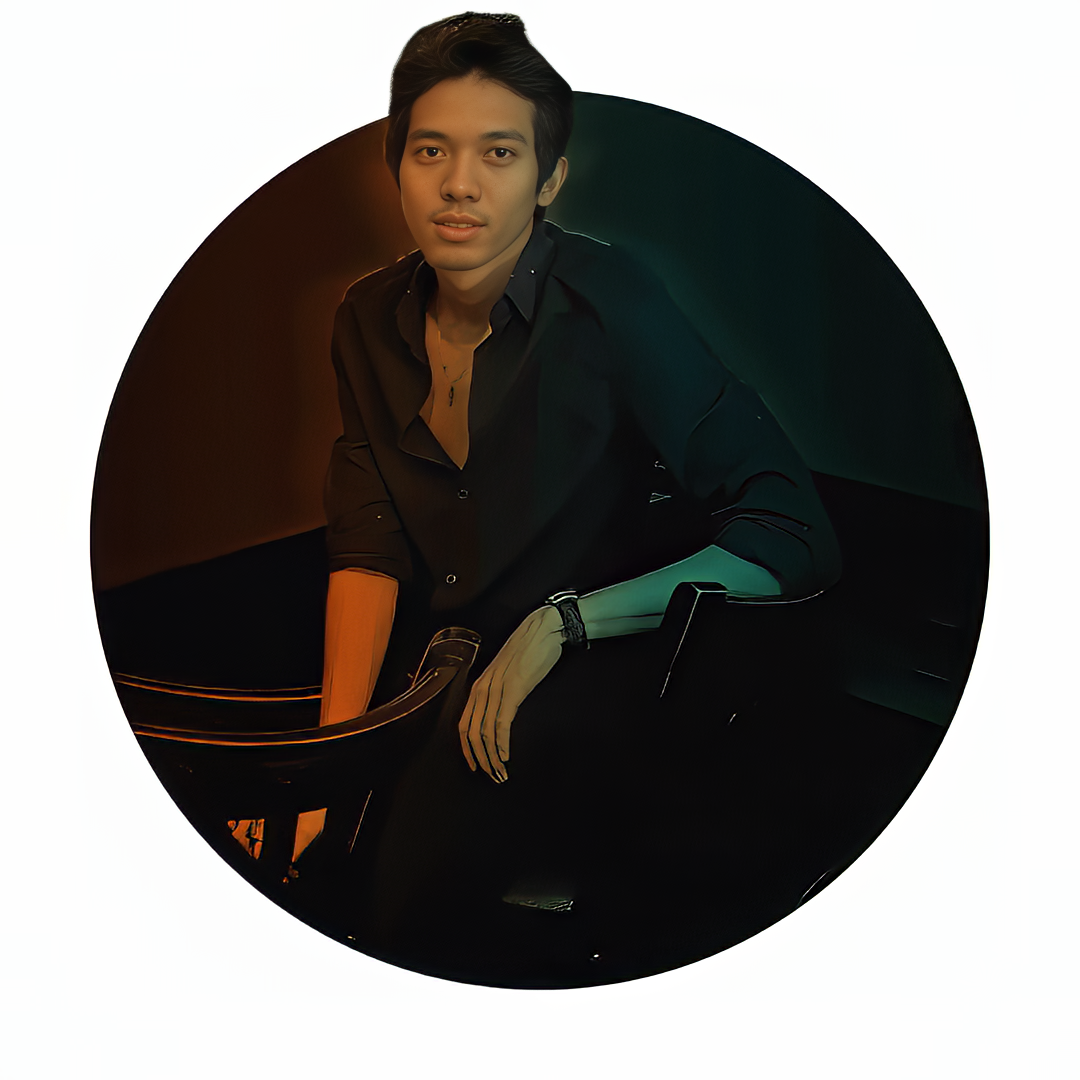
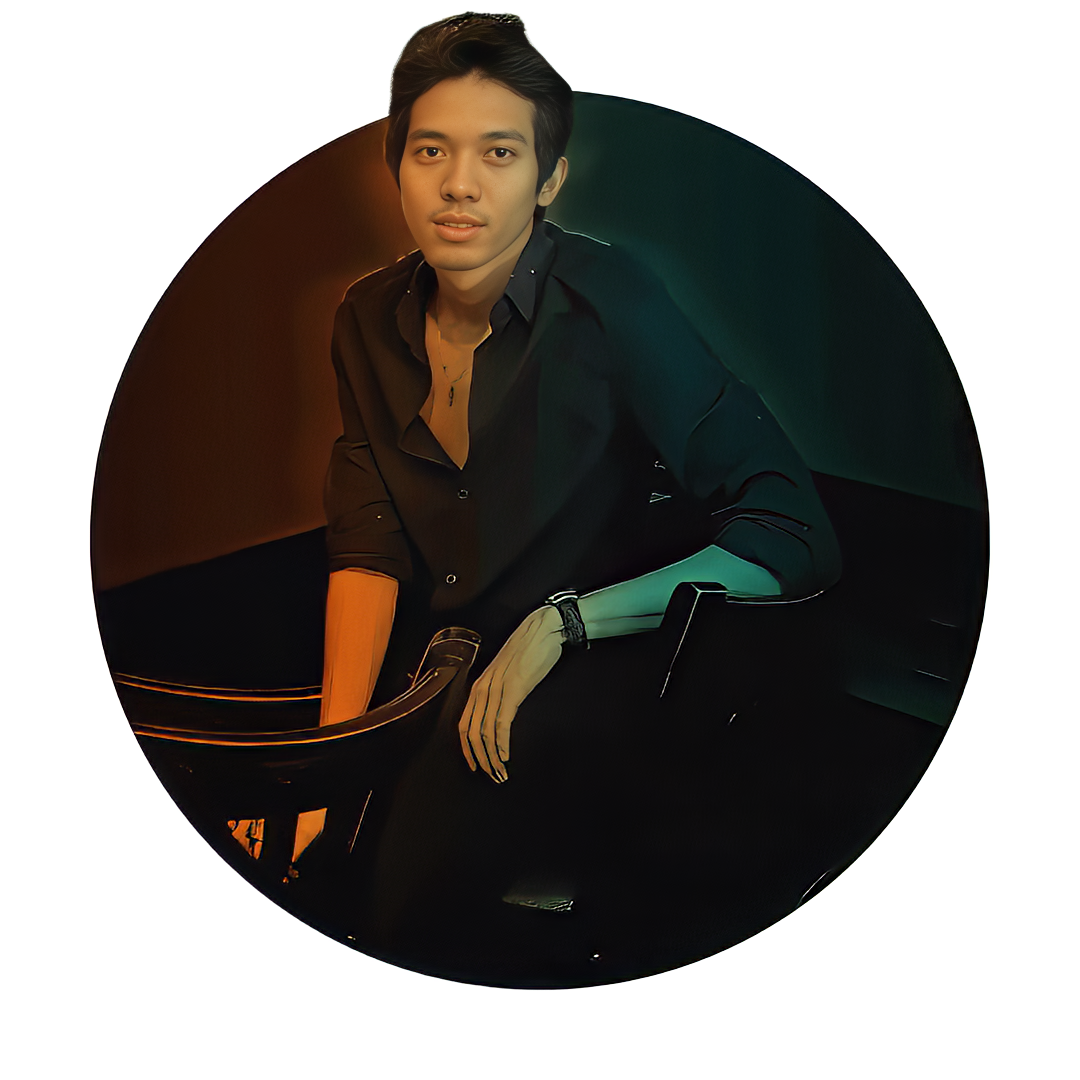
fixed: profile image size and set project 5 title color

diff --git a/scripts/language-boilerplate.js b/scripts/language-boilerplate.js
@@ -6,16 +6,16 @@ const languages = {
     my: "ကျွန်တော့်နာမည်ကတော့ဇေယျနိုင် ဖြစ်ပြီး ကျွန်တော် web developer အဖြစ် အလုပ်လုပ်နေပါတယ်။",
   },
   introduction_description: {
-    ja: `言語はJavascript、Typescript、PHP、フロントエンドはAngularとバックエンドはLaravelを利用してSPA開発を行っています。
+    ja: `　言語はJavascript、Typescript、PHP、フロントエンドはAngularとバックエンドはLaravelを利用してSPA開発を行っています。
             今までフロントエンドとバックエンドのコーディング実装、スクラム開発、PHP
             Unitの単体テスト、テストケース作成、障害対応なの経験を持っています。
             コードを実装する時に他のチームメンバーが分かりやすい、メンテナンスしやすいコードをいつも心掛けています。
             今後はウェブ開発者もっと学びつづ、スマホアプリ開発にも挑戦して行きたいです。`,
-    en: `I develop SPA using Javascript, Typescript, and PHP, with Angular for the front-end and Laravel for the back-end.
+    en: `　I develop SPA using Javascript, Typescript, and PHP, with Angular for the front-end and Laravel for the back-end.
           I have experience in front-end and back-end coding implementation, Scrum development, PHP Unit testing, test case creation and troubleshooting.
           When implementing code, I always try to write code that is easy for other team Members to understand and maintain.
           In the future, I would like to learn more about web development and challenge smartphone app development.`,
-    my: `front-end အတွက် Angular နှင့် back-end အတွက် Laravel တို့ဖြင့် Javascript၊ Typescript နှင့် PHP ကိုအသုံးပြု၍ SPA ကို တီထွင်ပါသည်။
+    my: `　Front-end အတွက် Angular နှင့် back-end အတွက် Laravel တို့ဖြင့် Javascript၊ Typescript နှင့် PHP ကိုအသုံးပြု၍ SPA ကို တီထွင်ပါသည်။
       ကျွန်ုပ်တွင် front-end နှင့် back-end coding အကောင်အထည်ဖော်မှု၊ Scrum ဖွံ့ဖြိုးတိုးတက်မှု၊ PHP Unit စမ်းသပ်မှု၊ စမ်းသပ်မှုဖန်တီးမှုနှင့် ပြဿနာဖြေရှင်းခြင်းများတွင် အတွေ့အကြုံရှိသည်။
       ကုဒ်ကို အကောင်အထည်ဖော်သည့်အခါတွင် အခြားအဖွဲ့သားများ နားလည်ပြီး ထိန်းသိမ်းရန် လွယ်ကူသော ကုဒ်ကို ရေးရန် အမြဲကြိုးစားပါသည်။
       အနာဂတ်တွင်၊ ကျွန်ုပ်သည် ဝဘ်ဖွံ့ဖြိုးတိုးတက်မှုနှင့် စမတ်ဖုန်းအက်ပလီကေးရှင်းဖွံ့ဖြိုးတိုးတက်မှုကို စိန်ခေါ်၍ ပိုမိုလေ့လာလိုပါသည်။`,
@@ -28,9 +28,9 @@ const languages = {
     my: "01. အဓိကလုပ်ငန်းသုံးစနစ်",
   },
   project_1_description: {
-    ja: `受注から印刷工程、出荷までの流れで、ペーパーレスを目的としたシステムです。 私は主にフロントエンドとバックエンドの開発をして、単体テスト、画面上テスト、バグ対応などを担当しています。受注から印刷工程出荷までの流れで、 ペーパーレスを目的としたシステムです。`,
-    en: `The system is aimed at going paperless from the flow of orders, through the printing process, to shipping. I mainly develop the front-end and back-end, and am in charge of unit testing, on-screen testing, and bug response. The system is aimed at going paperless from the flow of orders, through the printing process, to shipping.`,
-    my: `အဆိုပါစနစ်သည် အော်ဒါများ မှ ပုံနှိပ်ခြင်း၊ အော်ဒါပို့ဆောင်ခြင်းအထိ လုပ်ငန်းစဉ်တွင် အသုံးပြုရသောစက္ကူ(A4)များမရှိစေရန် ရည်ရွယ်သည်။ ကျွန်ုပ်သည် ရှေ့ဆုံးနှင့် နောက်တန်းကို အဓိကအားဖြင့် တီထွင်ထားပြီး ယူနစ်စမ်းသပ်ခြင်း၊ မျက်နှာပြင်ပေါ်ရှိ စမ်းသပ်ခြင်းနှင့် ချွတ်ယွင်းချက်တုံ့ပြန်မှုတို့ကို တာဝန်ယူပါသည်။ အဆိုပါစနစ်သည် အမှာစာများ စီးဆင်းမှုမှ စက္ကူမရှိသော ပုံနှိပ်ခြင်း လုပ်ငန်းစဉ်မှတဆင့် ပို့ဆောင်ခြင်းအထိ ရည်ရွယ်သည်။`,
+    ja: `　受注から印刷工程、出荷までの流れで、ペーパーレスを目的としたシステムです。 私は主にフロントエンドとバックエンドの開発をして、単体テスト、画面上テスト、バグ対応などを担当しています。`,
+    en: `　The system is aimed at going paperless from the flow of orders, through the printing process, to shipping. I mainly develop the front-end and back-end, and am in charge of unit testing, on-screen testing, and bug response.`,
+    my: `　အဆိုပါစနစ်ရည်ရွယ်ချက်သည် အော်ဒါများကိုပုံနှိပ်၍ ပို့ဆောင်ခြင်းအထိ လုပ်ငန်းစဉ်တွင် အသုံးပြုရသောစက္ကူ(A4)များမရှိစေရန် ဖြစ်ပါသည်။ ကျွန်ုပ်သည် front-endနှင့် back-endကို အဓိကအားဖြင့် ယူနစ်စမ်းသပ်ခြင်း၊ မျက်နှာပြင်ပေါ်ရှိ စမ်းသပ်ခြင်းနှင့် ချွတ်ယွင်းချက်တုံ့ပြန်မှုတို့ကို တာဝန်ယူပါသည်။`,
   },
   project_1_label_1: {
     ja: "開発開始: 2018年 10月",
@@ -48,9 +48,9 @@ const languages = {
     my: "02. အချိန်ပိုင်းစီမံခန့်ခွဲမှုစနစ်",
   },
   project_2_description: {
-    ja: `パートさんの出勤・退勤、業務日報、シフト、時給予算などが管理できるシステムです。私は主にER図作成、レスポンス定義、フロントエンド、バックエンド、単体テスト、画面上テスト、バグ対応などを担当しています。`,
-    en: `It is a system that can manage part-timer's attendance, daily work's report, shift, and salary budget. I am mainly responsible for ER diagram creation, response definition, front-end, back-end, unit testing, on-screen testing, and bug response.`,
-    my: `အချိန်ပိုင်းတက်ရောက်မှု၊ နေ့စဥ်အလုပ်အစီရင်ခံစ၊ အဆိုင်းနှင့် လစာဘတ်ဂျက်တို့ကို စီမံခန့်ခွဲနိုင်သည့် စနစ်တစ်ခုဖြစ်သည်။ ကျွန်ုပ်သည် ER ပုံကြမ်းဖန်တီးခြင်း၊ တုံ့ပြန်မှုအဓိပ္ပါယ်ဖွင့်ဆိုချက်၊ ရှေ့ဆုံး၊ နောက်ကျော၊ ယူနစ်စမ်းသပ်ခြင်း၊ မျက်နှာပြင်ပေါ်ရှိ စမ်းသပ်ခြင်းနှင့် ချွတ်ယွင်းချက်တုံ့ပြန်မှုတို့အတွက် အဓိကတာဝန်ယူပါသည်။`,
+    ja: `　パートさんの出勤・退勤、業務日報、シフト、時給予算などが管理できるシステムです。私は主にER図作成、レスポンス定義、フロントエンド、バックエンド、単体テスト、画面上テスト、バグ対応などを担当しています。`,
+    en: `　It is a system that can manage part-timer's attendance, daily work's report, shift, and salary budget. I am mainly responsible for ER diagram creation, response definition, front-end, back-end, unit testing, on-screen testing, and bug response.`,
+    my: `　အချိန်ပိုင်းတက်ရောက်မှု၊ နေ့စဥ်အလုပ်အစီရင်ခံစ၊ အဆိုင်းနှင့် လစာဘတ်ဂျက်တို့ကို စီမံခန့်ခွဲနိုင်သည့် စနစ်တစ်ခုဖြစ်သည်။ ကျွန်ုပ်သည် ER ပုံကြမ်းဖန်တီးခြင်း၊ တုံ့ပြန်မှုအဓိပ္ပါယ်ဖွင့်ဆိုချက်၊ ရှေ့ဆုံး၊ နောက်ကျော၊ ယူနစ်စမ်းသပ်ခြင်း၊ မျက်နှာပြင်ပေါ်ရှိ စမ်းသပ်ခြင်းနှင့် ချွတ်ယွင်းချက်တုံ့ပြန်မှုတို့အတွက် အဓိကတာဝန်ယူပါသည်။`,
   },
   project_2_label_1: {
     ja: "開発開始: 2019年 05月",
@@ -70,9 +70,9 @@ const languages = {
     my: "03. ကုမ္ပဏီ၏ FAQ(အမေးများသောမေးခွန်း) စနစ်",
   },
   project_3_description: {
-    ja: `EC サイトの商品、注文などに関するお客様の問い合わせを対応するための 社内用FAQシステムです。 設計から開発、フロントエンド、バックエンド、単体テスト、画面上テスト、バグ対応などを担当しています。`,
-    en: `The company's FAQ system is a frequent answer and question system for handling customer inquiries regarding products, orders, etc., on the EC site. I am responsible for everything from design to development, front-end, back-end, unit testing, on-screen testing, and bug response.`,
-    my: `ကုမ္ပဏီ၏ FAQ စနစ်သည် EC ဆိုက်တွင် ထုတ်ကုန်များ၊ အမှာစာများ စသည်တို့နှင့် ပတ်သက်သော ဖောက်သည်များ၏ စုံစမ်းမေးမြန်းမှုများကို မကြာခဏ ဖြေကြားပေးသည့် မေးခွန်းစနစ်တစ်ခုဖြစ်သည်။ ဒီဇိုင်းမှ ဖွံ့ဖြိုးတိုးတက်မှု၊ ရှေ့ဆုံး၊ နောက်ကျော၊ ယူနစ်စမ်းသပ်မှု၊ မျက်နှာပြင်ပေါ်ရှိ စမ်းသပ်ခြင်းနှင့် ချွတ်ယွင်းချက်တုံ့ပြန်မှုတို့မှ အရာအားလုံးအတွက် ကျွန်ုပ်တွင် တာဝန်ရှိပါသည်။`,
+    ja: `　EC サイトの商品、注文などに関するお客様の問い合わせを対応するための 社内用FAQシステムです。 設計から開発、フロントエンド、バックエンド、単体テスト、画面上テスト、バグ対応などを担当しています。`,
+    en: `　The company's FAQ system is a frequent answer and question system for handling customer inquiries regarding products, orders, etc., on the EC site. I am responsible for everything from design to development, front-end, back-end, unit testing, on-screen testing, and bug response.`,
+    my: `　ကုမ္ပဏီ၏ FAQ စနစ်သည် EC ဆိုက်တွင် ထုတ်ကုန်များ၊ အမှာစာများ စသည်တို့နှင့် ပတ်သက်သော ဖောက်သည်များ၏ စုံစမ်းမေးမြန်းမှုများကို မကြာခဏ ဖြေကြားပေးသည့် မေးခွန်းစနစ်တစ်ခုဖြစ်သည်။ ဒီဇိုင်းမှ ဖွံ့ဖြိုးတိုးတက်မှု၊ ရှေ့ဆုံး၊ နောက်ကျော၊ ယူနစ်စမ်းသပ်မှု၊ မျက်နှာပြင်ပေါ်ရှိ စမ်းသပ်ခြင်းနှင့် ချွတ်ယွင်းချက်တုံ့ပြန်မှုတို့မှ အရာအားလုံးအတွက် ကျွန်ုပ်တွင် တာဝန်ရှိပါသည်။`,
   },
   project_3_label_1: {
     ja: "開発開始: 2021年 06月",
@@ -90,9 +90,9 @@ const languages = {
     my: "04. မိတ်ဖက်ကုမ္ပဏီ အော်ဒါစီမံခန့်ခွဲမှုစနစ်",
   },
   project_4_description: {
-    ja: `自社製造品以外の製品をパートナー企業に発注する受注管理システムです。主にフロントエンド、バックエンド、単体テスト、画面テスト、API連携などを実装します。`,
-    en: `This is an outstanding order management system that orders products that are not manufactured by our company to partner companies. It mainly implements front-end, back-end, unit testing, on-screen testing, and API integration.`,
-    my: `ဤသည်မှာ ကျွန်ုပ်တို့၏ကုမ္ပဏီမှထုတ်လုပ်ခြင်းမရှိသော ထုတ်ကုန်များကို မိတ်ဖက်ကုမ္ပဏီများထံ မှာကြားသည့် ထူးထူးခြားခြား အမှာစာစီမံခန့်ခွဲမှုစနစ်ဖြစ်သည်။ ၎င်းသည် အဓိကအားဖြင့် front-end၊ back-end၊ unit testing၊ on-screen testing နှင့် API ပေါင်းစည်းမှုတို့ကို လုပ်ဆောင်သည်။`,
+    ja: `　自社製造品以外の製品をパートナー企業に発注する受注管理システムです。主にフロントエンド、バックエンド、単体テスト、画面テスト、API連携などを実装します。`,
+    en: `　This is an outstanding order management system that orders products that are not manufactured by our company to partner companies. It mainly implements front-end, back-end, unit testing, on-screen testing, and API integration.`,
+    my: `　ဤသည်မှာ ကျွန်ုပ်တို့၏ကုမ္ပဏီမှထုတ်လုပ်ခြင်းမရှိသော ထုတ်ကုန်များကို မိတ်ဖက်ကုမ္ပဏီများထံ မှာကြားသည့် ထူးထူးခြားခြား အမှာစာစီမံခန့်ခွဲမှုစနစ်ဖြစ်သည်။ ၎င်းသည် အဓိကအားဖြင့် front-end၊ back-end၊ unit testing၊ on-screen testing နှင့် API ပေါင်းစည်းမှုတို့ကို လုပ်ဆောင်သည်။`,
   },
   project_4_label_1: {
     ja: "開発開始: 2021年 06月",
@@ -110,9 +110,9 @@ const languages = {
     my: "05. ငွေကြေးစီမံခန့်ခွဲမှုစနစ်",
   },
   project_5_description: {
-    ja: `当社の Web アプリケーションは,ビジネスと個人の収入/成果をすばやく簡単に計算できるように設計されています。また,毎月の収入や成果を確認して,簡単に財務を管理することもできます。`,
-    en: `Our web application is designed to make it easy to manage the income/expenses of business and individuals. Also, you can check monthly income and expenses and manage your finances easily.`,
-    my: `ကျွန်ုပ်တို့၏ဝဘ်အက်ပလီကေးရှင်းသည် လုပ်ငန်းနှင့်တစ်ဦးချင်းစီ၏ ၀င်ငွေ/ထွက်ငွေများကို လွယ်ကူစွာတွက်ချက်နိုင်ရန် ဒီဇိုင်းထုတ်ထားသည်။ ထို့အပြင်၊ သင်သည် လစဉ် ၀င်ငွေနှင့် ထွက်ငွေများကို စစ်ဆေးနိုင်ပြီး သင်၏ ငွေကြေးကို လွယ်ကူစွာ စီမံခန့်ခွဲနိုင်သည်။`,
+    ja: `　当社の Web アプリケーションは,ビジネスと個人の収入/成果をすばやく簡単に計算できるように設計されています。また,毎月の収入や成果を確認して,簡単に財務を管理することもできます。`,
+    en: `　Our web application is designed to make it easy to manage the income/expenses of business and individuals. Also, you can check monthly income and expenses and manage your finances easily.`,
+    my: `　ကျွန်ုပ်တို့၏ဝဘ်အက်ပလီကေးရှင်းသည် လုပ်ငန်းနှင့်တစ်ဦးချင်းစီ၏ ၀င်ငွေ/ထွက်ငွေများကို လွယ်ကူစွာတွက်ချက်နိုင်ရန် ဒီဇိုင်းထုတ်ထားသည်။ ထို့အပြင်၊ သင်သည် လစဉ် ၀င်ငွေနှင့် ထွက်ငွေများကို စစ်ဆေးနိုင်ပြီး သင်၏ ငွေကြေးကို လွယ်ကူစွာ စီမံခန့်ခွဲနိုင်သည်။`,
   },
   project_5_label_1: {
     ja: "開発開始: 2023年 04月",
@@ -128,7 +128,7 @@ const languages = {
   contact_title: {
     ja: "お電話またはメールでのご相談は下記までお願いいたします。",
     en: "For inquiries by phone or email, please contact us at the details below.",
-    my: "ဖုန်း သို့မဟုတ် အီးမေးလ်ဖြင့် စုံစမ်းမေးမြန်းလိုပါက အောက်ပါအသေးစိတ်အချက်အလက်များကို ကျွန်ုပ်တို့ထံ ဆက်သွယ်ပါ။",
+    my: "ဖုန်း (သို့) အီးမေးလ်ဖြင့် စုံစမ်းမေးမြန်းလိုပါက အောက်ပါအသေးစိတ်အချက်အလက်များကို ကျွန်ုပ်တို့ထံ ဆက်သွယ်ပါ။",
   },
 };
 

diff --git a/index.html b/index.html
@@ -44,10 +44,9 @@
         <button class="ja">🇯🇵 JA</button>
         <button class="en">🇺🇸 EN</button>
       </div>
-   
     </nav>
     <div class="theme-color poppins-font-family font-weight-600">
-      <button class="dark-color">☾ DARK</button>
+      <button class="dark-color">☼ LIGHT</button>
     </div>
     <section id="introduction">
       <div class="container">
@@ -68,7 +67,7 @@
             ゼイヤ ナインと申します。ウェブ開発者として勤めています。
           </p>
           <p class="introduction_description">
-            言語はJavascript、Typescript、PHP、フロントエンドはAngularとバックエンドはLaravelを利用してSPA開発を行っています。
+            　言語はJavascript、Typescript、PHP、フロントエンドはAngularとバックエンドはLaravelを利用してSPA開発を行っています。
             今までフロントエンドとバックエンドのコーディング実装、スクラム開発、PHP
             Unitの単体テスト、テストケース作成、障害対応なの経験を持っています。
             コードを実装する時に他のチームメンバーが分かりやすい、メンテナンスしやすいコードをいつも心掛けています。
@@ -219,9 +218,8 @@
                 <span class="project_1_label_2">メンバー：7人</span>
               </p>
               <p class="project-description project_1_description">
-                受注から印刷工程、出荷までの流れで、ペーパーレスを目的としたシステムです。
-                私は主にフロントエンドとバックエンドの開発をして、単体テスト、画面上テスト、バグ対応などを担当しています。受注から印刷工程出荷までの流れで、
-                ペーパーレスを目的としたシステムです。
+                　受注から印刷工程、出荷までの流れで、ペーパーレスを目的としたシステムです。
+                私は主にフロントエンドとバックエンドの開発をして、単体テスト、画面上テスト、バグ対応などを担当しています。
               </p>
             </div>
             <div
@@ -283,7 +281,7 @@
                 <span class="project_2_label_2">メンバー：2人</span>
               </p>
               <p class="project-description project_2_description">
-                パートさんの出勤・退勤、業務日報、シフト、時給予算などが管理できるシステムです。
+                　パートさんの出勤・退勤、業務日報、シフト、時給予算などが管理できるシステムです。
                 私は主にER図作成、レスポンス定義、フロントエンド、バックエンド、単体テスト、画面上テスト、バグ対応などを担当しています。
               </p>
             </div>
@@ -346,7 +344,7 @@
                 <span class="project_3_label_2">メンバー：3人</span>
               </p>
               <p class="project-description project_3_description">
-                EC
+                　EC
                 サイトの商品、注文などに関するお客様の問い合わせを対応するための
                 社内用FAQシステムです。
                 設計から開発、フロントエンド、バックエンド、単体テスト、画面上テスト、バグ対応などを担当しています。
@@ -411,7 +409,7 @@
                 <span class="project_4_label_2">メンバー：7人</span>
               </p>
               <p class="project-description project_4_description">
-                弊社で製造しない商品をパートナー企業へ発注する発注管理システムです。
+                　弊社で製造しない商品をパートナー企業へ発注する発注管理システムです。
                 主にフロントエンド、バックエンド、単体テスト、画面上テスト、API
                 連携を実装しています。
               </p>
@@ -465,9 +463,8 @@
                 <span class="project_5_label_2">メンバー：1人</span>
               </p>
               <p class="project-description project_5_description">
-                弊社で製造しない商品をパートナー企業へ発注する発注管理システムです。
-                主にフロントエンド、バックエンド、単体テスト、画面上テスト、API
-                連携を実装しています。
+                　当社の Web
+                アプリケーションは,ビジネスと個人の収入/成果をすばやく簡単に計算できるように設計されています。また,毎月の収入や成果を確認して,簡単に財務を管理することもできます。
               </p>
             </div>
           </div>

diff --git a/style.css b/style.css
@@ -25,6 +25,9 @@
     --text-main-reverse-color: #1e1e1e;
     --text-sub-color: #ffffff;
     --text-sub-reverse-color: #000000;
+    --btn-them-color: 7, 7, 7;
+    --btn-theme-reverse-color: 225, 225, 225;
+    --text-shadow: 90, 90, 90;
 }
 
 body.is-light {
@@ -34,6 +37,9 @@ body.is-light {
     --text-main-reverse-color: #e1e1e1;
     --text-sub-color: #000000;
     --text-sub-reverse-color: #ffffff;
+    --btn-them-color: 225, 225, 225;
+    --btn-theme-reverse-color: 7, 7, 7;
+    --text-shadow: 180, 180, 180;
 }
 
 @font-face {
@@ -49,8 +55,9 @@ body.is-light {
 
 html {
     font-size: 14px;
-    
+
 }
+
 body.is-dark {
     background-color: var(--bg-color);
     color: var(--text-main-color);
@@ -140,7 +147,7 @@ span {
 /* ナビゲーションバー */
 nav {
     background: rgba(255, 255, 255, 0.4);
-    box-shadow: 0 4px 4px rgba(202, 202, 202, 0.25);
+    box-shadow: 0 4px 4px rgba(18, 18, 18, 0.25);
     backdrop-filter: blur(8px);
     -webkit-backdrop-filter: blur(8px);
     position: fixed;
@@ -163,6 +170,7 @@ nav a.nav-link {
     display: block;
     padding: 12px 0;
     margin-right: 20px;
+    text-shadow: 2px 2px rgba(var(--text-shadow), 0.35);
 }
 
 nav li a.active {
@@ -219,6 +227,7 @@ nav .lang-btn button+button {
     right: 0;
     margin-top: 100px;
     margin-right: 20px;
+    z-index: 100;
 }
 
 .theme-color button {
@@ -227,10 +236,11 @@ nav .lang-btn button+button {
     outline: none;
     box-sizing: border-box;
     /* background-color: #FFFFFF; */
-    border: 1px solid #E0E0E0;
+    border: 1px solid var(--text-main-color);
     border-radius: 10px;
-    background: rgba(255, 255, 255, 0.4);
-    box-shadow: 0 4px 4px rgba(202, 202, 202, 0.25);
+    background-color: rgba(var(--btn-theme-reverse-color), 0.8);
+    color: var(--text-sub-reverse-color);
+    box-shadow: 0 4px 4px rgba(var(--btn-theme-reverse-color), 0.25);
     margin-left: 20px;
 }
 
@@ -302,10 +312,10 @@ section hr {
 
 .profile {
     position: absolute;
-    top: -120px;
+    top: -170px;
     left: 38%;
-    width: 150px;
-    height: 150px;
+    width: 200px;
+    height: 200px;
     background: rgba(255, 255, 255, 0.2);
     box-shadow: 0 4px 20px rgba(160, 160, 160, 0.25);
     border-radius: 50%;
@@ -342,7 +352,7 @@ section hr {
     flex-wrap: wrap;
     max-width: 560px;
     margin: auto;
-    
+
 }
 
 .skill-container p {
@@ -358,7 +368,7 @@ section hr {
     border-radius: 10px;
     text-align: center;
     width: 60px;
-    
+
 }
 
 .skill-box.html {
@@ -447,6 +457,10 @@ section hr {
     color: var(--text-main-color);
 }
 
+#projects .project-title a {
+    color: var(--text-sub-color);
+}
+
 .project-container {
     display: flex;
     flex-wrap: wrap;
@@ -500,12 +514,14 @@ section hr {
     margin-bottom: 4px;
 }
 
-.project-start-date span, .project-members span {
+.project-start-date span,
+.project-members span {
     margin-left: 4px;
     color: var(--text-main-color)
 }
 
-body.is-dark .project-start-date img,  body.is-dark .project-members img {
+body.is-dark .project-start-date img,
+body.is-dark .project-members img {
     background-color: #ffffff
 }
 
@@ -549,7 +565,8 @@ body.is-dark .project-start-date img,  body.is-dark .project-members img {
 }
 
 .contact-mail {
-    border-top: 1px solid var(--text-sub-color);;
+    border-top: 1px solid var(--text-sub-color);
+    ;
     padding-top: 10px;
 }
 

diff --git a/main.js b/main.js
@@ -14,10 +14,10 @@ $(function () {
   });
   $(".theme-color").click(function () {
     $("body").toggleClass("is-light");
-    if ($(".dark-color").html().includes('DARK')) {
-      $(".dark-color").html(`☼ LIGHT`)
-    } else {
+    if ($(".dark-color").html().includes('LIGHT')) {
       $(".dark-color").html(`☾ DARK`)
+    } else {
+      $(".dark-color").html(`☼ LIGHT`)
     }
   });
 
